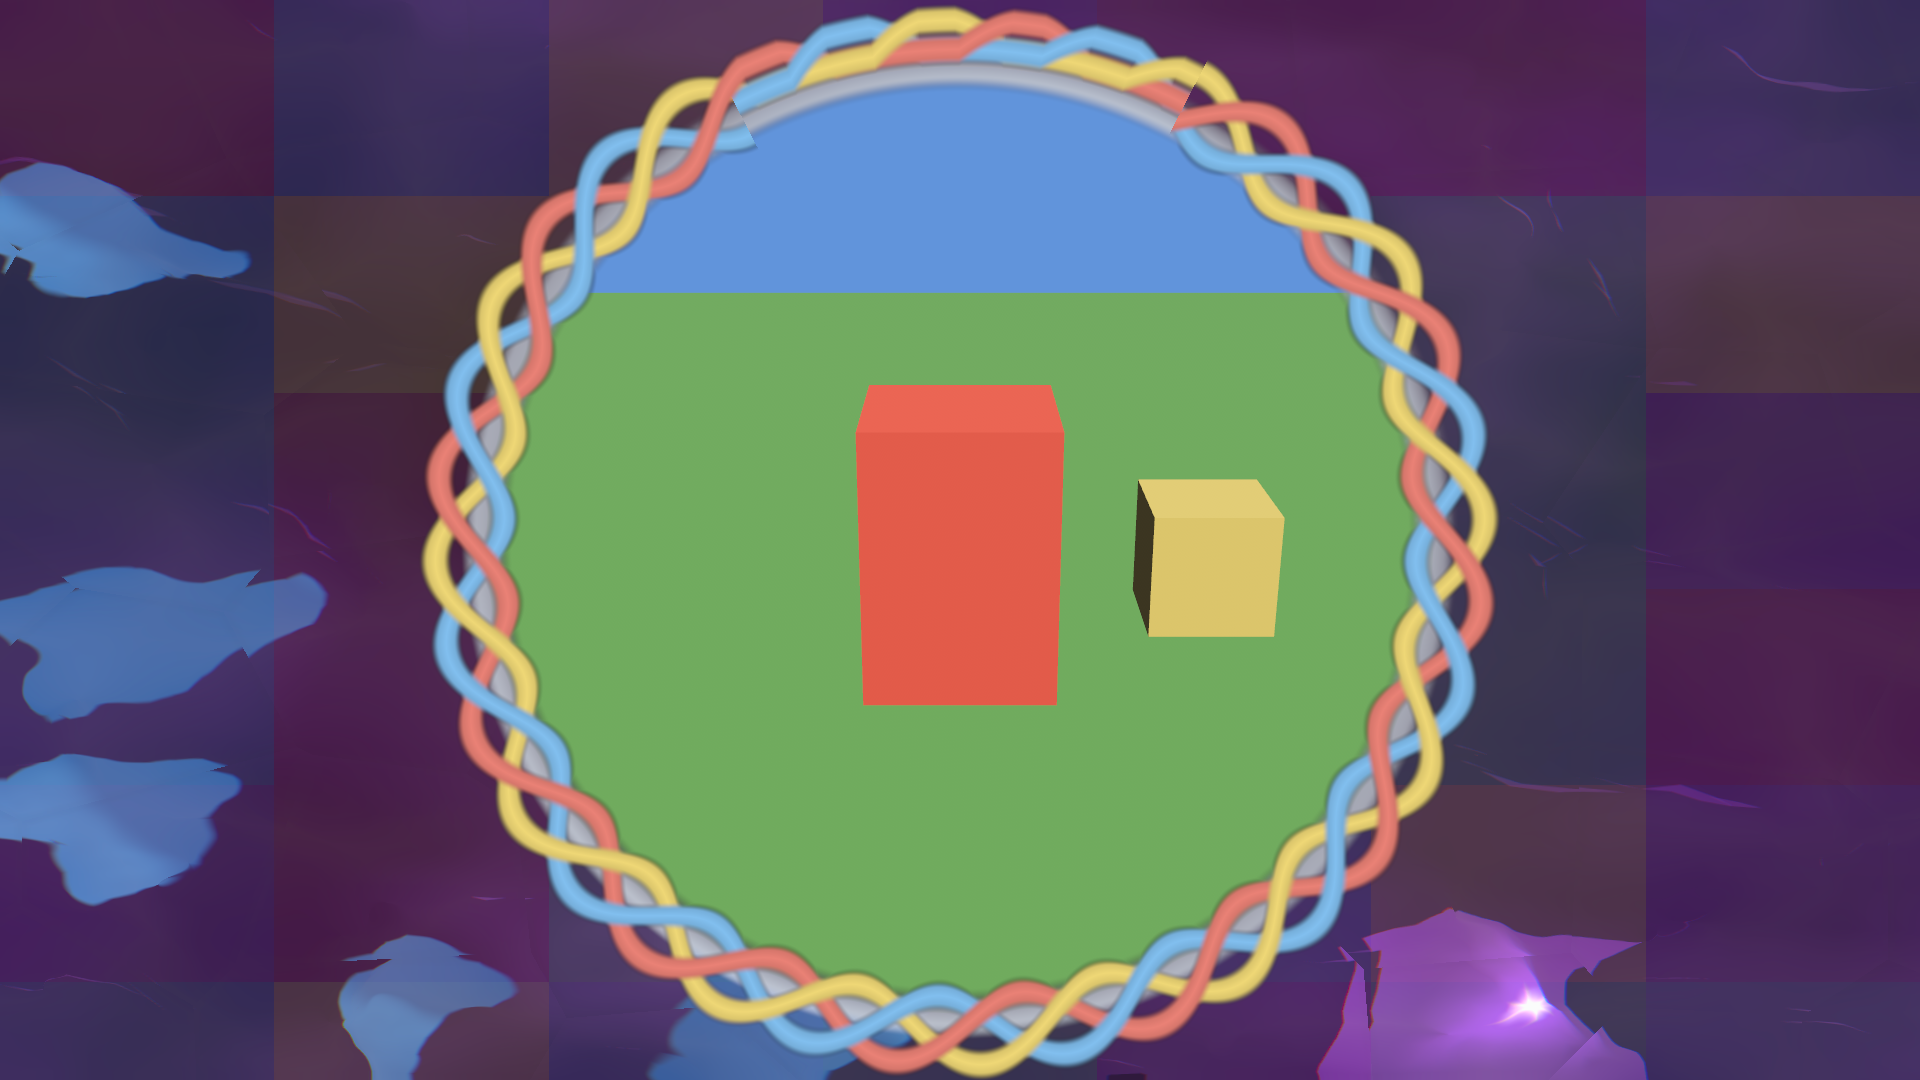
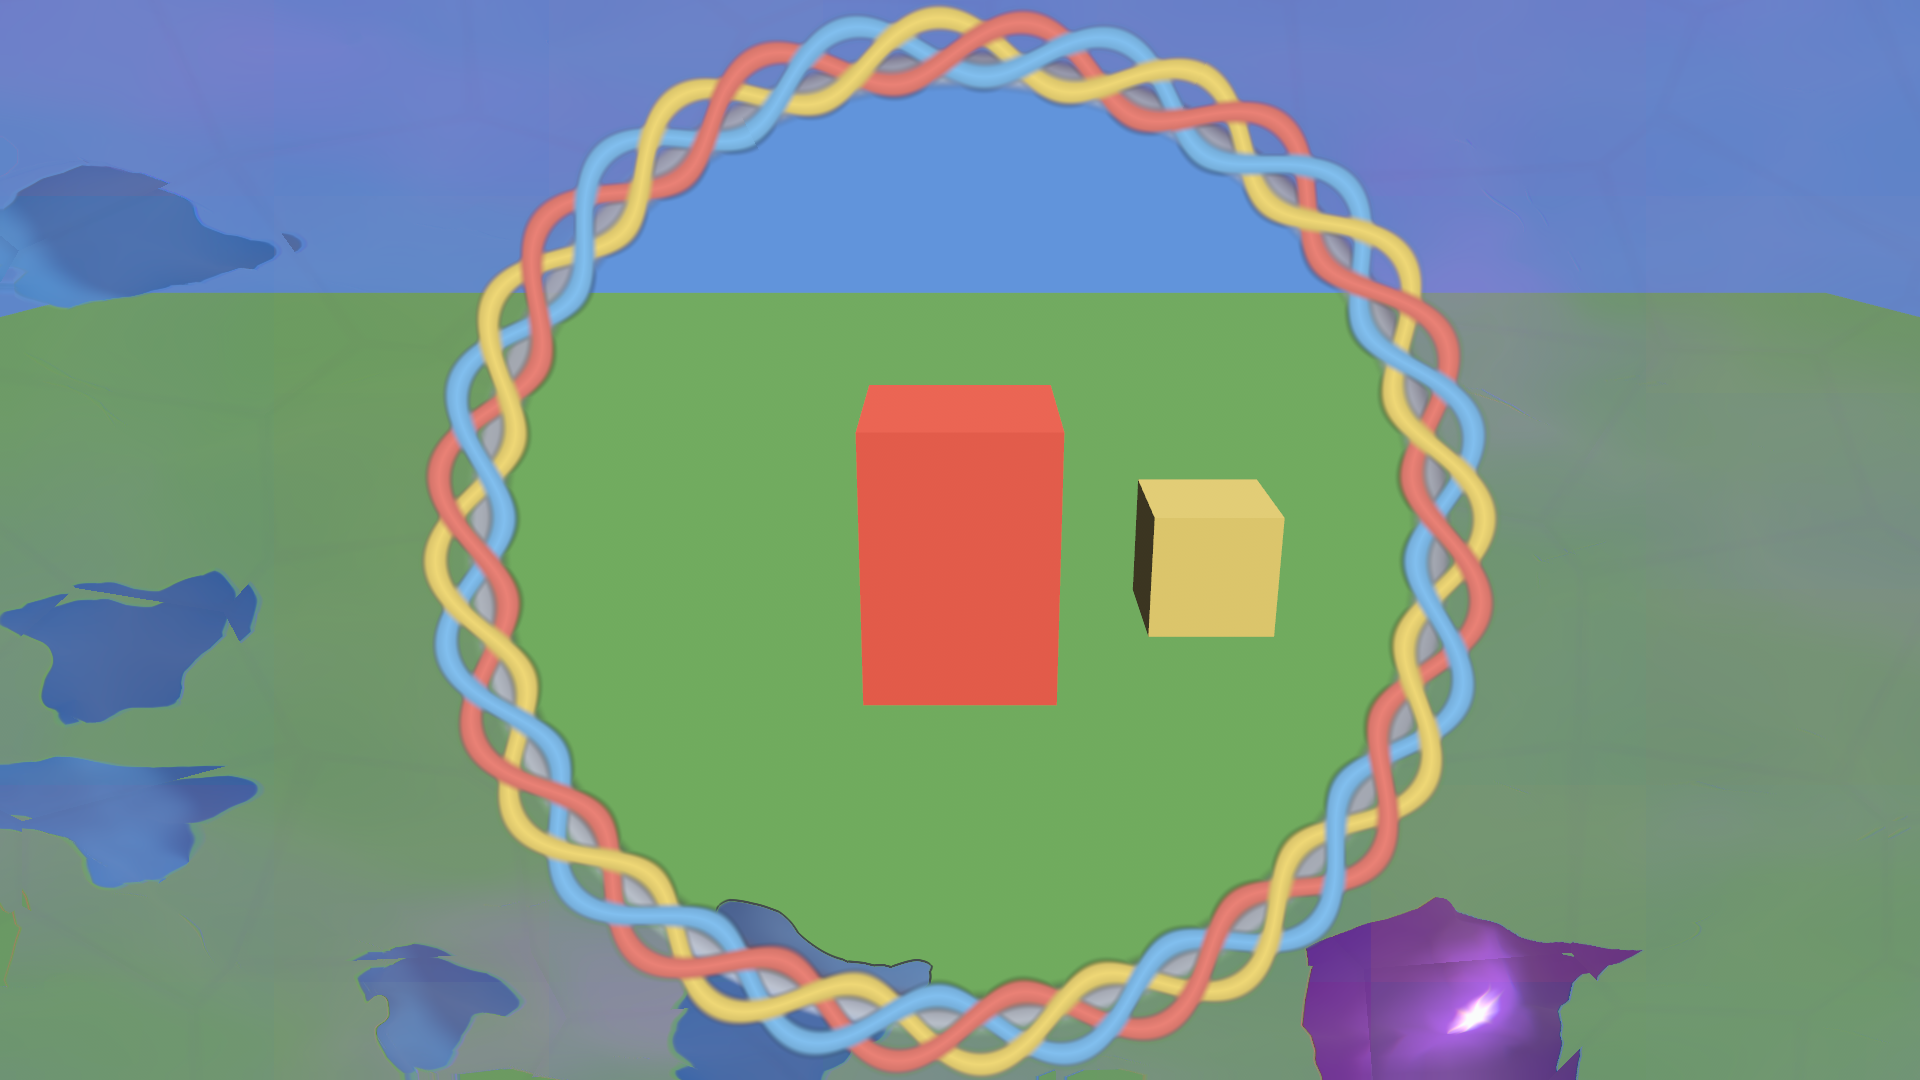
fix(skill-map): keep dance marks on the lens and curl the unravel
Feed arrows, the hit line, and other high-alpha overlay marks composite
over the world window instead of dropping into the hole. Capture uses the
translucent expanded overlay clear so land veil cannot fill the lens.
Unravelled tips spiral slowly in the annulus rather than parking as
constant-r dashed bands on the rim.

## Agent Dialogue

- **Developer:** Owner decision on draft PR #1653: draw dance arrows and the hit line on top of the lens over the world window, with an outline if needed, without tinting the lens; apply the same rule to other in-pocket overlay marks; make unravel strands at the top read as loose curls, not flattened dashed bands; recapture Rockadder Feed idle/fire/unravel/re-plait plus one other map's unravel at 1920×1080; commit; tests `--release`; stay draft; never merge; no `flake.lock`.
[…]

diff --git a/maybraid/items/skill-map/src/lens.rs b/maybraid/items/skill-map/src/lens.rs
@@ -9,7 +9,6 @@
 
 use bevy::prelude::*;
 
-use crate::SkillMapEvent;
 use crate::map::MapExtents;
 use crate::overlay::{
 	OverlayParams, SkillMapOverlay, SkillMapOverlayMaterial, SkillMapOverlayPane,
@@ -17,6 +16,7 @@ use crate::overlay::{
 use crate::tiles::SPAWN_CLEARING_RADIUS;
 use crate::user::{SkillMapMember, SkillMapUser};
 use crate::viewport::map_view_extent;
+use crate::SkillMapEvent;
 
 /// apa-kan `TILE_BRAID_TURN_UNITS` (0.21), interpreted in overlay UV so a
 /// closed rim meets itself after an integer number of twists.
@@ -288,16 +288,20 @@ impl OverlayParams {
 		}
 		let ring_thick = (radius * LENS_RING_THICKNESS_FRAC).max(1.0);
 		let stroke = (radius * BRAID_STROKE_FRAC).max(1.0);
-		let inner = (radius + ring_thick * 0.20).max(braid_radius);
+		// Just outside the glass, not glued to the idle braid (that looked like
+		// three dashed bands hugging the rim).
+		let inner = radius + ring_thick * 0.40;
 		let half = size.min_element() * 0.5;
-		let outer = (half - stroke - 2.0).max(inner);
-		let t = (0.16 + i as f32 * 0.34).clamp(0.0, 1.0);
-		let parked = inner * (1.0 - t) + outer * t;
-		let flare = peel * (outer - inner) * 0.12 * self.flare;
-		let loose_r = (parked + flare).clamp(inner, outer);
+		let outer = (half - stroke - 2.0).max(inner + stroke);
+		let span = (outer - inner).max(1.0);
+		// Slow spiral + one hook: high-frequency sines read as dashed rim ticks.
+		let mean = 0.10 + i as f32 * 0.40;
+		let spiral = peel * (0.50 * (1.0 - (from_break / 1.15).clamp(0.0, 1.0)));
+		let hook = peel * 0.28 * (from_break * 2.15 + i as f32 * 2.094 + 0.35).sin();
+		let t = (mean + spiral + hook).clamp(0.08, 0.96);
+		let loose_r = inner + span * t;
 		let park_amt = (unplait / 0.35).clamp(0.0, 1.0);
-		let radial = idle_r * (1.0 - park_amt) + loose_r * park_amt;
-		radial.clamp(inner, outer)
+		idle_r * (1.0 - park_amt) + loose_r * park_amt
 	}
 
 	/// Strand in front at `theta` by apa-kan `phase.cos()` (true over/under).
@@ -352,7 +356,8 @@ impl OverlayParams {
 		let radius = self.lens_radius_px(size);
 		let ring_thick = (radius * LENS_RING_THICKNESS_FRAC).max(1.0);
 		let amp = radius * BRAID_AMP_FRAC;
-		let stroke = (radius * BRAID_STROKE_FRAC).max(1.0);
+		let loosen = 1.0 - self.curl.clamp(0.0, 1.0);
+		let stroke = (radius * BRAID_STROKE_FRAC).max(1.0) * (1.0 + 0.22 * loosen);
 		let braid_radius = radius + ring_thick * 0.65;
 		let mut hits = [(0.0_f32, Vec3::ZERO, -2.0_f32); 3];
 		for i in 0..BRAID_STRANDS {
@@ -701,13 +706,19 @@ mod tests {
 		assert!(bottom.alpha > 0.15, "the far arc stays plaited, got {}", bottom.alpha);
 		let radius = params.lens_radius_px(size);
 		let amp = radius * BRAID_AMP_FRAC;
-		let braid_radius = radius + (radius * LENS_RING_THICKNESS_FRAC).max(1.0) * 0.65;
+		let stroke = (radius * BRAID_STROKE_FRAC).max(1.0);
+		let ring_thick = (radius * LENS_RING_THICKNESS_FRAC).max(1.0);
+		let braid_radius = radius + ring_thick * 0.65;
 		let mut tip_hits = 0;
 		for i in 0..BRAID_STRANDS {
 			let r = params.strand_radial(BRAID_BREAK, i, radius, amp, braid_radius, size);
 			assert!(
 				r >= radius,
 				"unravelled strand {i} must stay outside the lens, r={r} radius={radius}"
+			);
+			assert!(
+				r > radius + ring_thick * 0.25,
+				"unravelled strand {i} must lift off the glass, not hug it, r={r} radius={radius}"
 			);
 			assert!(
 				r < size.min_element() * 0.5 - 1.0,
@@ -720,7 +731,6 @@ mod tests {
 			}
 		}
 		assert!(tip_hits >= 2, "unravelled tips stay visible at the break, hits={tip_hits}");
-		let stroke = (radius * BRAID_STROKE_FRAC).max(1.0);
 		let spread = (0..BRAID_STRANDS)
 			.map(|i| params.strand_radial(BRAID_BREAK, i, radius, amp, braid_radius, size))
 			.fold(0.0_f32, |acc, r| acc.max(r))
@@ -730,6 +740,18 @@ mod tests {
 		assert!(
 			spread > stroke * 0.7,
 			"unravelled strands occupy distinct radii in the annulus, spread={spread} stroke={stroke}"
+		);
+		let shoulder = BRAID_BREAK + 0.28;
+		let curl_travel = (0..BRAID_STRANDS)
+			.map(|i| {
+				(params.strand_radial(BRAID_BREAK, i, radius, amp, braid_radius, size)
+					- params.strand_radial(shoulder, i, radius, amp, braid_radius, size))
+				.abs()
+			})
+			.fold(0.0_f32, f32::max);
+		assert!(
+			curl_travel > stroke * 0.35,
+			"unravelled tips must curl, not sit on a constant-r band, travel={curl_travel} stroke={stroke}"
 		);
 		Ok(())
 	}
@@ -755,23 +777,46 @@ mod tests {
 		let radius = open.lens_radius_px(size);
 		let ring_thick = (radius * LENS_RING_THICKNESS_FRAC).max(1.0);
 		let stroke = (radius * BRAID_STROKE_FRAC).max(1.0);
+		let amp = radius * BRAID_AMP_FRAC;
 		let braid_radius = radius + ring_thick * 0.65;
-		let inner = (radius + ring_thick * 0.20).max(braid_radius);
-		let outer = (size.min_element() * 0.5 - stroke - 2.0).max(inner);
-		let mid_annulus = inner * 0.35 + outer * 0.65;
-		let open_loose = open.braid_sample(open.uv_at_polar(BRAID_BREAK, mid_annulus, size), size);
-		let shut_loose = shut.braid_sample(shut.uv_at_polar(BRAID_BREAK, mid_annulus, size), size);
+		let idle = idle_params();
+		let leave = |params: OverlayParams| {
+			(0..BRAID_STRANDS)
+				.map(|i| {
+					(params.strand_radial(BRAID_BREAK, i, radius, amp, braid_radius, size)
+						- idle.strand_radial(BRAID_BREAK, i, radius, amp, braid_radius, size))
+					.abs()
+				})
+				.fold(0.0_f32, f32::max)
+		};
+		let open_leave = leave(open);
+		let shut_leave = leave(shut);
 		assert!(
-			open_loose.alpha > 0.12,
-			"unravel must occupy the annulus outside the rim, got {}",
-			open_loose.alpha
+			open_leave > stroke * 0.5,
+			"unravel tips must leave the idle rim, leave={open_leave} stroke={stroke}"
 		);
 		assert!(
-			open_loose.alpha > shut_loose.alpha + 0.08,
-			"re-plait must draw strands back in from the annulus, open={} shut={}",
-			open_loose.alpha,
-			shut_loose.alpha
+			open_leave > shut_leave + stroke * 0.25,
+			"re-plait must draw strands back toward the idle weave, open={open_leave} shut={shut_leave}"
 		);
+		Ok(())
+	}
+
+	#[test]
+	fn lens_keeps_high_alpha_marks_over_the_world_window() -> anyhow::Result<()> {
+		let params = idle_params();
+		let size = square();
+		let land = params.paint_alpha_at(
+			Vec2::splat(0.5),
+			size,
+			crate::overlay::OVERLAY_LAND_PIGMENT,
+			0.20,
+			0.0,
+			0.5,
+		);
+		let marks = params.paint_alpha_at(Vec2::splat(0.5), size, Vec3::ONE, 1.0, 0.0, 0.5);
+		assert!(land < 0.08, "land paint must not tint the lens, got {land}");
+		assert!(marks > 0.80, "arrows and the hit line stay on the glass, got {marks}");
 		Ok(())
 	}
 

diff --git a/maybraid/items/skill-map/src/overlay.rs b/maybraid/items/skill-map/src/overlay.rs
@@ -56,10 +56,17 @@ pub const OVERLAY_PAINT_SATURATION: f32 = 1.45;
 pub const OVERLAY_LAND_PIGMENT: Vec3 = Vec3::new(0.58, 0.28, 0.16);
 pub const OVERLAY_MARK_ALPHA_LO: f32 = 0.60;
 pub const OVERLAY_MARK_ALPHA_HI: f32 = 0.90;
+/// Stricter keep on the lens interior so land veil (~0.21) cannot fill the hole.
+/// Keep in sync with `overlay_material.wesl`.
+pub const OVERLAY_MARK_LENS_ALPHA_LO: f32 = 0.72;
+pub const OVERLAY_MARK_LENS_ALPHA_HI: f32 = 0.92;
 /// Minimum composited alpha for arrows, power tiles, and the cursor.
 pub const OVERLAY_MARK_ALPHA_MIN: f32 = 0.85;
 const _: () = assert!(OVERLAY_MARK_ALPHA_LO < OVERLAY_MARK_ALPHA_MIN);
 const _: () = assert!(OVERLAY_MARK_ALPHA_MIN <= OVERLAY_MARK_ALPHA_HI);
+const _: () = assert!(OVERLAY_MARK_LENS_ALPHA_LO > OVERLAY_MARK_ALPHA_LO);
+const _: () = assert!(OVERLAY_MARK_LENS_ALPHA_LO < OVERLAY_MARK_ALPHA_MIN);
+const _: () = assert!(OVERLAY_MARK_ALPHA_MIN <= OVERLAY_MARK_LENS_ALPHA_HI);
 const _: () = assert!(OVERLAY_PAINT_SATURATION > 1.0);
 /// Tile overlay amount on the 9f22704 build. Used as a coverage regression bound.
 #[cfg(test)]
@@ -380,6 +387,7 @@ impl OverlayParams {
 	}
 
 	/// `uv` / `size` select the clear lens interior vs the stained-glass field.
+	/// High-alpha marks (feed arrows, hit line, power icons) stay on the window.
 	pub fn paint_alpha_at(
 		self,
 		uv: Vec2,
@@ -401,7 +409,8 @@ impl OverlayParams {
 		let lens = self.lens_mask(uv, size);
 		let glass_amt = amount * (1.0 - lens);
 		let field = sample_alpha * (1.0 - glass_amt) + treated * glass_amt;
-		field * (1.0 - lens)
+		let marks = Self::lens_mark_keep(sample_alpha) * sample_alpha * amount * lens;
+		field * (1.0 - lens) + marks
 	}
 
 	pub fn paint_ink(pigment: Vec3) -> f32 {
@@ -411,8 +420,16 @@ impl OverlayParams {
 	}
 
 	pub fn mark_keep(sample_alpha: f32) -> f32 {
-		let span = OVERLAY_MARK_ALPHA_HI - OVERLAY_MARK_ALPHA_LO;
-		let t = ((sample_alpha - OVERLAY_MARK_ALPHA_LO) / span).clamp(0.0, 1.0);
+		Self::smooth_keep(sample_alpha, OVERLAY_MARK_ALPHA_LO, OVERLAY_MARK_ALPHA_HI)
+	}
+
+	pub fn lens_mark_keep(sample_alpha: f32) -> f32 {
+		Self::smooth_keep(sample_alpha, OVERLAY_MARK_LENS_ALPHA_LO, OVERLAY_MARK_LENS_ALPHA_HI)
+	}
+
+	fn smooth_keep(sample_alpha: f32, lo: f32, hi: f32) -> f32 {
+		let span = (hi - lo).max(1e-4);
+		let t = ((sample_alpha - lo) / span).clamp(0.0, 1.0);
 		t * t * (3.0 - 2.0 * t)
 	}
 }
@@ -1253,7 +1270,15 @@ mod tests {
 			0.0,
 			0.5,
 		);
-		assert!(marks < 0.08, "the lens is a world window, not a map disc, got {marks}");
+		assert!(
+			marks >= OVERLAY_MARK_ALPHA_MIN,
+			"feed arrows / hit line ride on top of the world window, got {marks}"
+		);
+		assert!(
+			OverlayParams::lens_mark_keep(0.23) < 0.02,
+			"veiled land must not count as a lens mark"
+		);
+		assert!(OverlayParams::lens_mark_keep(1.0) > 0.99);
 		let field_marks = OverlayParams::from_overlay(expanded).paint_alpha_at(
 			Vec2::ZERO,
 			size,

diff --git a/maybraid/items/skill-map/examples/overlay_lens_capture.rs b/maybraid/items/skill-map/examples/overlay_lens_capture.rs
@@ -12,16 +12,17 @@ use std::path::{Path, PathBuf};
 use std::time::Duration;
 
 use bevy::audio::AudioPlugin;
-use bevy::camera::ScalingMode;
+use bevy::camera::{ClearColorConfig, ScalingMode};
 use bevy::prelude::*;
-use bevy::render::view::screenshot::{Capturing, Screenshot, save_to_disk};
+use bevy::render::view::screenshot::{save_to_disk, Capturing, Screenshot};
 use bevy::ui::widget::ViewportNode;
 use bevy::window::WindowResolution;
 use character_items::{SkillMapKind, SkillMapSpec};
 use maybraid_skill_map::{
-	OVERLAY_TILE_AMOUNT, OverlayParams, SkillMapMember, SkillMapOverlay, SkillMapOverlayLens,
-	SkillMapOverlayMaterial, SkillMapOverlayPlugin, SkillMapTileAssets, SkillMapTileMaterial,
-	SkillMapTileMaterialPlugin, authored_map_from_spec, map_view_extent, spawn_skill_map_view,
+	authored_map_from_spec, map_view_extent, spawn_skill_map_view, OverlayParams, SkillMapBackdrop,
+	SkillMapMember, SkillMapOverlay, SkillMapOverlayLens, SkillMapOverlayMaterial,
+	SkillMapOverlayPlugin, SkillMapTileAssets, SkillMapTileMaterial, SkillMapTileMaterialPlugin,
+	OVERLAY_TILE_AMOUNT,
 };
 
 const CAPTURE_WIDTH: u32 = 1920;
@@ -69,7 +70,11 @@ fn main() {
 		.insert_resource(CaptureDir(dir))
 		.init_resource::<CaptureShots>()
 		.add_systems(PostStartup, setup)
-		.add_systems(Update, (rebuild_map, drive_lens, capture_scene, advance_after_shot).chain())
+		.add_systems(
+			Update,
+			(rebuild_map, capture_map_overlay_clear, drive_lens, capture_scene, advance_after_shot)
+				.chain(),
+		)
 		.run();
 }
 
@@ -135,7 +140,7 @@ impl CapturePose {
 
 	fn warmup(self, first_of_map: bool) -> Duration {
 		if first_of_map && self == Self::Idle {
-			Duration::from_millis(1600)
+			Duration::from_millis(2800)
 		} else {
 			Duration::from_millis(400)
 		}
@@ -214,17 +219,30 @@ fn spawn_capture_map(
 	let extent = map_view_extent();
 	projection.scaling_mode = ScalingMode::Fixed { width: extent.x, height: extent.y };
 	projection.scale = 1.0;
+	let authored = authored_map_from_spec(SkillMapSpec::new(kind, 11));
+	let backdrop = SkillMapBackdrop { kind: authored.kind };
 	let view = spawn_skill_map_view(
 		commands,
 		images,
 		tile_assets,
-		authored_map_from_spec(SkillMapSpec::new(kind, 11)),
+		authored,
 		member,
 		-2,
 		projection,
-		CaptureMapCamera,
+		(CaptureMapCamera, backdrop),
 	);
 	(view.camera, view.image)
+}
+
+/// Match live play: expanded overlay clear is translucent, so land veil stays
+/// ~0.21 and only opaque arrows / hit line / power marks ride the world window.
+fn capture_map_overlay_clear(
+	mut cameras: Query<(&mut Camera, &SkillMapBackdrop), With<CaptureMapCamera>>,
+) {
+	for (mut camera, backdrop) in &mut cameras {
+		camera.clear_color =
+			ClearColorConfig::Custom(backdrop.kind.overlay_clear(SkillMapOverlay::Expanded));
+	}
 }
 
 fn despawn_capture_map(

diff --git a/maybraid/items/skill-map/README.md b/maybraid/items/skill-map/README.md
@@ -42,9 +42,12 @@ centre — sized from the spawn-clearing (no-debraid) pocket, not a magic UV
 number — with a 2D braid around the rim (apa-kan tile-rim weave: opposite
 sines, integer twists, true over/under stacking). Inside the ring is a clear
 window onto the live 3D world (the little centre cursor is replaced); outside
-is the skill map as before. Skill activation flashes the braid and sends a
+is the skill map as before. Feed arrows and the hit line stay drawn on top of
+that window, with a dark outline so they read against the world; the lens
+itself is not tinted. Skill activation flashes the braid and sends a
 bright sheen sweeping across the lens glass; a water Debraid unravels the
-strands from the top of the ring (kept on-screen, outside the lens) and then
+strands from the top of the ring into loose curling ribbons (kept on-screen,
+outside the lens — not flattened dashed bands hugging the rim) and then
 re-plaits them. Releasing RB restores the HUD and fades the blur out. The expand edge plays
 the authored `change_item` clip on the UI bus; releasing RB is silent. The clock pauses when skill-map input is inactive or gameplay
 is suspended. Changing the equipped map starts a fresh feed on the next RB
